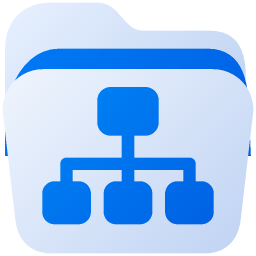
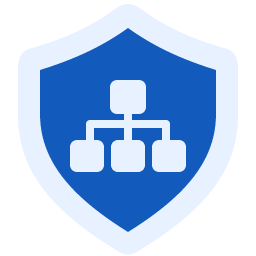
Atualizar identidade oficial AlgeAD Manager e Setup

diff --git a/README.md b/README.md
@@ -1,10 +1,6 @@
 <div align="center">
 
-<picture>
-  <source media="(prefers-color-scheme: dark)" srcset="assets/brand-dark.png">
-  <source media="(prefers-color-scheme: light)" srcset="assets/brand-light.png">
-  <img src="assets/brand-light.png" width="112" alt="Símbolo oficial do AlgeAD Manager">
-</picture>
+<img src="assets/brand.svg" width="112" alt="Símbolo oficial do AlgeAD Manager">
 
 <h1>AlgeAD Manager</h1>
 
@@ -88,7 +84,7 @@ As operações dependem das permissões da conta autenticada, das políticas do 
 | Modo claro, escuro ou automático | Menu lateral recolhível |
 | Temas e cores de destaque | Painéis de informações e ações rápidas |
 | Fontes, densidade e tamanho de ícones ajustáveis | Tabelas com colunas personalizáveis |
-| Identidade visual adaptada a cada tema | Layout adaptável a diferentes larguras de janela |
+| Identidade visual única nos modos claro e escuro | Layout adaptável a diferentes larguras de janela |
 
 ### Experimente sem um domínio real
 
